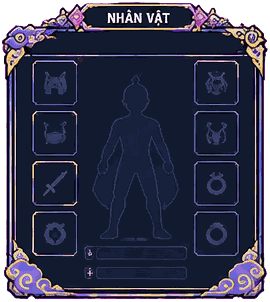
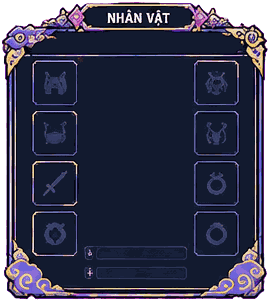
Bảng Nhân vật ưu tiên màn dọc: chỉ số kéo vuốt bên dưới, ô trang bị khớp, bỏ hình bóng người (#10)
Claude-Session: https://claude.ai/code/session_018b6HgGmd6jx7c3MYzMWrTn

diff --git a/src/ui/panels.js b/src/ui/panels.js
@@ -7,11 +7,13 @@ const SETTINGS_KEY = 'tc.settings';
 
 function openModal(className, frame, build) {
   const wrap = el('<div class="overlay modal-wrap"></div>');
+  const col = el(`<div class="modal-col ${className}-col"></div>`); // khung + phần phụ bên dưới (nếu có)
   const box = el(`<div class="modal ${className}" style="aspect-ratio:${frame.w}/${frame.h};--fw:${frame.w}"></div>`);
   box.style.backgroundImage = `url("${new URL(frame.src, location.href).href}")`;
   const close = el('<button type="button" class="modal-close glow" aria-label="Đóng">✕</button>');
   box.appendChild(close);
-  wrap.appendChild(box);
+  col.appendChild(box);
+  wrap.appendChild(col);
   document.getElementById('ui').appendChild(wrap);
   const done = () => { wrap.classList.add('fade-out'); setTimeout(() => wrap.remove(), 180); };
   close.addEventListener('click', done);
@@ -25,38 +27,83 @@ function openModal(className, frame, build) {
     box.appendChild(n);
     return n;
   };
-  build({ box, at, close: done });
+  build({ box, col, at, close: done });
   return done;
 }
 
-// ---------- Nhân vật: chỉ số + trang bị đang đeo ----------
+// ---------- Nhân vật: trang bị đang đeo + bảng chỉ số kéo vuốt bên dưới ----------
+// Khung đã xoá hình bóng người vẽ sẵn ở giữa (theo yêu cầu chủ dự án).
 const CHAR_FRAME = { src: 'assets/ui/frames/bang-nhan-vat.png', w: 270, h: 302 };
-const SLOTS = [ // [x, y] ô trang bị vẽ sẵn trên khung (44×44)
-  [27, 60], [27, 109], [27, 159], [27, 208],
-  [189, 60], [189, 109], [189, 159], [189, 208],
+const SLOT = 45; // ô trang bị vẽ sẵn: cạnh 45, đo trên ảnh khung gốc
+const SLOTS = [
+  [32, 60], [32, 110], [32, 160], [32, 210],     // cột trái
+  [194, 60], [194, 110], [194, 160], [194, 210], // cột phải
 ];
 
 export function showCharacterPanel({ name, realmName, stats, equipment, drawAvatar }) {
-  openModal('modal-char', CHAR_FRAME, ({ box, at }) => {
-    const av = at('<canvas class="char-avatar" width="96" height="128"></canvas>', 80, 70, 110, 160);
+  openModal('modal-char', CHAR_FRAME, ({ col, at }) => {
+    const av = at('<canvas class="char-avatar" width="96" height="128"></canvas>', 85, 66, 100, 176);
     const ctx = av.getContext('2d');
     ctx.imageSmoothingEnabled = false;
-    ctx.translate(48, 122); ctx.scale(3.4, 3.4);
+    ctx.translate(48, 124); ctx.scale(3.2, 3.2);
     drawAvatar(ctx);
 
     SLOTS.forEach(([x, y], i) => {
       const item = equipment[i];
-      const slot = at(`<button type="button" class="eq-slot ${item ? 'filled' : ''}" aria-label="Ô trang bị ${i + 1}"></button>`, x, y, 46, 46);
+      const slot = at(`<button type="button" class="eq-slot ${item ? 'filled' : ''}" aria-label="Ô trang bị ${i + 1}"></button>`, x, y, SLOT, SLOT);
       slot.addEventListener('click', () => toast(item ? item.name : 'Chưa trang bị'));
     });
-    at(`<div class="char-line gold">${escapeHtml(name)}</div>`, 84, 245, 100, 13);
-    at(`<div class="char-line">${escapeHtml(realmName)}</div>`, 84, 265, 100, 13);
+    at(`<div class="char-line gold">${escapeHtml(name)}</div>`, 96, 247, 90, 12);
+    at(`<div class="char-line">${escapeHtml(realmName)}</div>`, 96, 267, 90, 12);
 
-    const side = el(`<div class="char-stats"><h3>Chỉ số</h3>${stats.map((s) => `
-      <div class="stat"><span>${escapeHtml(s.label)}</span><b>${s.value ?? '—'}</b></div>`).join('')}
-      <p class="muted">Chỉ số sẽ hiện số thật khi có bảng chỉ số nhân vật.</p></div>`);
-    box.appendChild(side);
+    // Bảng chỉ số nằm dưới khung: vuốt xuống / chạm để kéo ra, vuốt lên để thu lại
+    const sheet = el(`<div class="char-sheet">
+      <button type="button" class="sheet-handle" aria-expanded="false"><i></i><span>Chỉ số</span></button>
+      <div class="sheet-body"><div class="sheet-inner">${stats.map((s) => `
+        <div class="stat"><span>${escapeHtml(s.label)}</span><b>${s.value ?? '—'}</b></div>`).join('')}
+        <p class="muted">Chỉ số sẽ hiện số thật khi có bảng chỉ số nhân vật.</p></div></div>
+    </div>`);
+    col.appendChild(sheet);
+    attachSwipeSheet(sheet);
   });
+}
+
+function attachSwipeSheet(sheet) {
+  const handle = sheet.querySelector('.sheet-handle');
+  const body = sheet.querySelector('.sheet-body');
+  const inner = sheet.querySelector('.sheet-inner');
+  let open = false;
+  const set = (v) => {
+    open = v;
+    sheet.classList.toggle('open', v);
+    handle.setAttribute('aria-expanded', String(v));
+    body.style.transition = '';
+    body.style.height = v ? `${inner.scrollHeight}px` : '0px';
+  };
+  let startY = null, startH = 0, moved = false;
+  const down = (e) => {
+    startY = e.clientY; startH = body.getBoundingClientRect().height; moved = false;
+    body.style.transition = 'none';
+    sheet.setPointerCapture(e.pointerId);
+  };
+  const move = (e) => {
+    if (startY === null) return;
+    const dy = e.clientY - startY;
+    if (Math.abs(dy) > 4) moved = true;
+    body.style.height = `${Math.max(0, Math.min(inner.scrollHeight, startH + dy))}px`;
+  };
+  const up = (e) => {
+    if (startY === null) return;
+    const dy = e.clientY - startY;
+    startY = null;
+    if (!moved) set(!open);
+    else set(dy > 0 ? (dy > 24 || open) : !(dy < -24) && open);
+  };
+  sheet.addEventListener('pointerdown', down);
+  sheet.addEventListener('pointermove', move);
+  sheet.addEventListener('pointerup', up);
+  sheet.addEventListener('pointercancel', up);
+  set(false);
 }
 
 // ---------- Cài đặt: âm thanh, nhạc nền, ngôn ngữ, đăng xuất ----------

diff --git a/src/ui/style.css b/src/ui/style.css
@@ -223,27 +223,49 @@ img { image-rendering: pixelated; }
 }
 @keyframes pop-in2 { from { transform: scale(.92); opacity: 0 } }
 .modal-close {
-  position: absolute; right: -6px; top: -6px; z-index: 2; width: 30px; height: 30px; border-radius: 50%;
+  position: absolute; right: 2px; top: 2px; z-index: 2; width: 30px; height: 30px; border-radius: 50%;
   border: 1px solid var(--gold); background: var(--navy); color: var(--gold); font-size: 14px; cursor: pointer;
 }
-.modal-char { height: min(86dvh, 420px); margin-right: min(150px, 30vw); }
+.modal-col { position: relative; display: flex; flex-direction: column; align-items: center; }
+.modal-char { width: min(92vw, 420px, calc(70dvh * 270 / 302)); }
 .char-avatar { image-rendering: pixelated; pointer-events: none; }
-.eq-slot { background: transparent; border: 0; border-radius: 4px; cursor: pointer; }
-.eq-slot:hover, .eq-slot:focus { box-shadow: 0 0 0 1px var(--gold), 0 0 10px rgba(242,199,127,.5); }
+.eq-slot { background: transparent; border: 0; border-radius: 6px; padding: 0; cursor: pointer; }
+.eq-slot:hover, .eq-slot:focus-visible, .eq-slot:active {
+  box-shadow: inset 0 0 0 2px var(--gold), 0 0 10px rgba(242,199,127,.5);
+}
 .char-line {
-  font-size: 4.2cqw; text-align: center; white-space: nowrap; overflow: hidden; color: var(--text);
-  text-shadow: 0 1px 2px #000; line-height: 1.2;
+  display: flex; align-items: center; font-size: 4.4cqw; white-space: nowrap; overflow: hidden; color: var(--text);
+  text-shadow: 0 1px 2px #000; line-height: 1;
 }
 .char-line.gold { color: var(--gold); font-weight: 700; }
-.char-stats {
-  position: absolute; left: 100%; top: 12%; margin-left: 8px; width: min(140px, 28vw);
-  padding: 10px 12px; border-radius: 8px; background: rgba(16,25,45,.95); border: 1px solid var(--gold-dark);
-  font-size: 12px;
+
+/* Bảng chỉ số kéo vuốt dưới khung nhân vật */
+.char-sheet {
+  width: calc(min(92vw, 420px, calc(70dvh * 270 / 302)) * .88); margin-top: -10px; touch-action: none;
+  background: rgba(16,25,45,.97); border: 1px solid var(--gold-dark); border-top: 0;
+  border-radius: 0 0 12px 12px; box-shadow: 0 8px 20px rgba(0,0,0,.5);
 }
-.char-stats h3 { margin: 0 0 6px; font-size: 13px; color: var(--gold); }
-.stat { display: flex; justify-content: space-between; gap: 8px; padding: 3px 0; border-bottom: 1px solid rgba(184,137,74,.25); }
+.sheet-handle {
+  width: 100%; padding: 14px 0 8px; border: 0; background: none; cursor: pointer;
+  display: flex; flex-direction: column; align-items: center; gap: 4px; color: var(--gold);
+  font-size: 13px; font-weight: 700;
+}
+.sheet-handle i { width: 40px; height: 4px; border-radius: 2px; background: var(--gold-dark); }
+.sheet-handle span::after { content: " ▾"; }
+.char-sheet.open .sheet-handle span::after { content: " ▴"; }
+.sheet-body { height: 0; overflow: hidden; transition: height .28s cubic-bezier(.2,.8,.2,1); }
+.sheet-inner { padding: 0 16px 12px; font-size: 13px; }
+.stat { display: flex; justify-content: space-between; gap: 8px; padding: 5px 0; border-bottom: 1px solid rgba(184,137,74,.25); }
 .stat b { color: var(--gold); }
-.muted { margin: 8px 0 0; font-size: 10px; color: var(--muted); line-height: 1.35; }
+.muted { margin: 8px 0 0; font-size: 11px; color: var(--muted); line-height: 1.35; }
+@media (orientation: landscape) {
+  .modal-char { width: min(60vw, 420px, calc(84dvh * 270 / 302)); }
+  .modal-char-col { flex-direction: row; align-items: flex-start; }
+  .modal-char-col .char-sheet {
+    width: min(160px, 26vw); margin: 10% 0 0 -6px; border: 1px solid var(--gold-dark); border-radius: 0 12px 12px 0;
+  }
+}
+
 .modal-settings { width: min(380px, 86vw, calc(84dvh * 155 / 148)); }
 .set-label {
   display: flex; align-items: center; font-size: 4.6cqw; color: var(--text); padding-left: 4%;

diff --git a/docs/04-ASSET.md b/docs/04-ASSET.md
@@ -2,7 +2,8 @@
 
 ## Phân vai (quyết định 2026-10-20)
 - **Thiết kế và nội dung hình ảnh: chủ dự án.** Claude không tự vẽ đồ hoạ; chỉ tách nền, cắt, nén, ghép vào game và làm hiệu ứng nhẹ (phát sáng, mờ dần, ánh chạy).
-- Thiết kế chính cho **màn hình ngang**. Cầm dọc vẫn chơi được, không chặn: ảnh nền thu nhỏ vừa khung (tạm thời, đến khi có bố cục dọc riêng).
+- **Ưu tiên màn hình dọc** (quyết định 2026-10-20); ngang vẫn hỗ trợ. Mọi bảng mới phải kiểm tra trên 390×844 trước.
+- Sửa nhẹ hình theo yêu cầu chủ dự án được phép (ví dụ đã xoá hình bóng người giữa `frames/bang-nhan-vat.png`); ảnh gốc giữ nguyên trong `_source/`.
 - Giao diện: **khung tím–vàng** (tấm 1–4) kết hợp **icon đen–vàng** (tấm 5).
 
 ## Quy trình đưa tấm UI vào game
